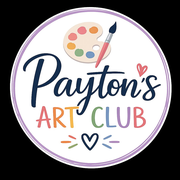
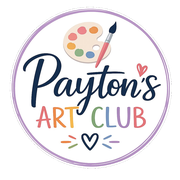
123

diff --git a/UPGRADE.md b/UPGRADE.md
@@ -1,106 +1,33 @@
-# Payton's Art Club — v18: Lessons Auto-Advance + Polish 🎨
+# Payton's Art Club — v18b: Logo Background Removed 🎨
 
-## What's new
+## What changed
 
-### 1. ✏ Next lesson opens with one tap
+Just the logo. The previous logo image had a black background built into the JPEG. v18b replaces it with a true PNG that has a transparent background, so the logo now floats cleanly against the cream-colored page background instead of sitting in a black square.
 
-When a kid finishes a lesson, the reward screen now shows a big **"Next: [Lesson Title] →"** button as the primary action. One tap and the next lesson in the same world opens up. If it was the last lesson in the world, the button falls back to "More Drawing ✏" (returns to the world list).
+All favicons regenerated from the transparent logo too:
+- `public/logo.png` (now PNG with RGBA, was JPEG with black background)
+- `public/favicon.ico`
+- `public/favicon-32.png`
+- `public/icon-192.png`
+- `public/icon-512.png`
+- `public/apple-touch-icon.png`
 
-Files changed:
-- `lib/lessons.ts` — added `getNextLesson(currentLessonId)` helper
-- `app/app/lesson/[id]/page.tsx` — reward screen now shows Next button
-
-### 2. 🎫 Patrick Moss has lifetime premium
-
-Your account (`bamoss25@gmail.com`, UID `6f5aa6d8-6cfa-4714-84d4-186a9470a15b`) now has premium access regardless of Stripe subscription status. Implemented two ways for redundancy:
-
-**Client-side override** (`lib/useEntitlement.ts`): hardcoded list of override user IDs. The hook checks this list first and returns `hasPremium: true` immediately if the current user matches.
-
-**Database grant** (`supabase/v18_grant_premium.sql`): SQL migration that sets `has_premium = true` on the parents row for your UID, with `subscription_current_period_end = '2099-12-31'` so it never auto-expires.
-
-You should run the SQL migration in Supabase SQL Editor after deploying. The client-side override will work immediately on deploy without needing the SQL, but the DB grant makes it persistent in the source of truth.
-
-### 3. 🐰 Buddy moved INSIDE canvas (no longer blocks tools)
-
-The buddy now lives ANCHORED to the bottom-left corner of the canvas itself, not floating over the page. This means:
-- Tools in the left toolbar are always fully visible/clickable
-- Color sidebar on the right is always fully visible/clickable
-- Bottom utility row (undo, save, etc) is always fully visible/clickable
-- The buddy occupies a small portion of the canvas itself, where strokes pass through it (`pointer-events-none` on the wrapper, only the actual avatar circle and X button capture events)
-
-### 4. 🐼 Buddy is bigger
-
-Avatar size increased from 56 → 90 in expanded mode. Speech bubble max-width increased from 180 → 200. Hide button slightly larger.
-
-The buddy is now a substantial presence the kid can actually engage with, not a tiny thumbnail.
-
-### 5. 🏷 Sticker tabs auto-scroll into view
-
-When you tap a sticker category tab that's offscreen (e.g. "Magic" when you're scrolled to "Animals"), the tab bar now auto-scrolls so the active tab is centered/visible. Fixes the "doesn't slide all the way over" complaint.
-
-File changed: `components/StickerTray.tsx`
-
-### 6. 🎨 New logo
-
-The new "Payton's Art Club" logo from your upload replaces the old one. All favicons (32px, 192px, 512px, apple-touch-icon, favicon.ico) regenerated from the new logo. Will appear:
-- Browser tab favicon
-- iOS home screen icon (when "Add to Home Screen")
-- Android PWA icon
-- Logo on landing/login pages
+No code changes. Six image files swapped.
 
 ## How to apply
 
-1. Back up v17, unzip v18, copy `.git` over
-2. `git add . && git commit -m "v18: auto-advance lessons, premium grant, buddy polish, new logo"`
+1. Back up v18, unzip v18b, copy `.git` over
+2. `git add . && git commit -m "v18b: transparent logo background"`
 3. `git push`
-4. Vercel auto-deploys (~2-3 min)
-5. **Run the SQL migration**: open Supabase → SQL Editor → paste contents of `supabase/v18_grant_premium.sql` → Run
-6. Hard refresh on every device (browser will need to fetch new favicons too)
+4. **Hard refresh** — browsers aggressively cache favicons. On iPad, you may need to remove the home-screen icon and re-add it to see the new transparent version.
 
-## Test checklist
+## Test
 
-- [ ] Open a lesson → finish it → reward screen shows "Next: [lesson title] →"
-- [ ] Tap Next → next lesson in same world opens
-- [ ] Finish the LAST lesson in a world → reward screen shows "More Drawing ✏" instead
-- [ ] Log in as `bamoss25@gmail.com` → all premium worlds unlocked (no paywall)
-- [ ] Open Free Draw → buddy is in bottom-left corner of canvas, NOT covering tools
-- [ ] Buddy is noticeably larger than before (size 90 vs old 56)
-- [ ] Tap buddy → collapses to peek tab on left edge
-- [ ] Open sticker tray → tap "Magic" or other offscreen tab → tab scrolls into view
-- [ ] Browser tab shows new logo favicon
-- [ ] On iPad: add to home screen → home screen icon is the new logo
+- Landing page: logo appears as a clean circle on cream background, no black box
+- Header on all pages: small logo also clean
+- Browser tab favicon: should show the logo without any black background
+- iPad home screen (after re-adding): icon should be the transparent logo
 
-## What's NOT in v18
+## What's the same as v18
 
-- **Language switcher** — strongly pushed back. Full app i18n is 20-40+ hours of work per language with proper translations. Partial implementations (only menus translated) feel broken. Recommend treating this as its own future project, not bundling it into a polish release.
-
-## Honest caveats
-
-- The buddy at size 90 covers ~120×170 pixels in the bottom-left of the canvas. Strokes pass through (pointer-events-none) so kids CAN draw under the buddy, but they won't see what they drew until they collapse the buddy. If this becomes a problem, kids can tap the buddy to collapse it.
-- The "auto-scroll" sticker tab fix uses `scrollIntoView({ behavior: 'smooth' })`. On older iOS versions the smooth scroll may be janky — that's a browser limitation, not a code issue.
-- The Patrick Moss override is a hardcoded user ID. If you want to add more comp accounts later, edit `PREMIUM_OVERRIDE_USER_IDS` in `lib/useEntitlement.ts`.
-
-## Files changed in v18
-
-| File | What changed |
-|---|---|
-| `components/FloatingBuddy.tsx` | Added `anchored` prop, increased size to 90 |
-| `components/StickerTray.tsx` | Added auto-scroll on active tab change |
-| `app/app/draw/page.tsx` | Buddy moved inside canvas wrapper, anchored |
-| `app/app/lesson/[id]/page.tsx` | Buddy anchored, Next Lesson button on reward screen |
-| `lib/lessons.ts` | Added `getNextLesson()` helper, imported WORLDS |
-| `lib/useEntitlement.ts` | Added `PREMIUM_OVERRIDE_USER_IDS` set |
-| `public/logo.png` | New "Payton's Art Club" logo |
-| `public/favicon*.png`, `apple-touch-icon.png`, `icon-192.png`, `icon-512.png` | Regenerated from new logo |
-| `supabase/v18_grant_premium.sql` | NEW — SQL migration for Patrick Moss premium grant |
-
-## What I'd recommend next
-
-You've made a lot of changes (v15-v18) and Payton hasn't had a chance to use the stable version for any meaningful time. **Stop and let her play for a week**. Note specifically:
-
-- Does she actually tap "Next Lesson" or close the app at the reward screen?
-- Does the bigger buddy delight her or annoy her?
-- Does she find the sticker categories easier to navigate now?
-- Any new issues that come up only with sustained use?
-
-Real signal beats more iterations.
+Everything else — auto-advance lessons, Patrick Moss premium grant, bigger buddy, anchored buddy inside canvas, sticker tab auto-scroll. Nothing else changed.
